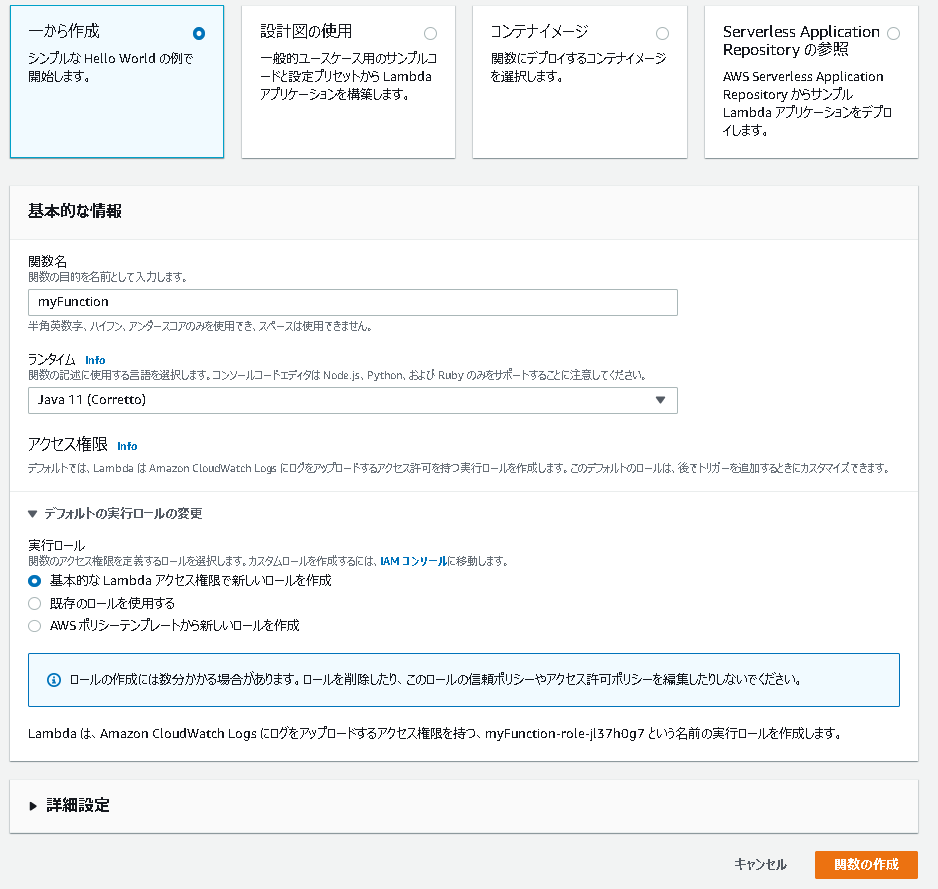
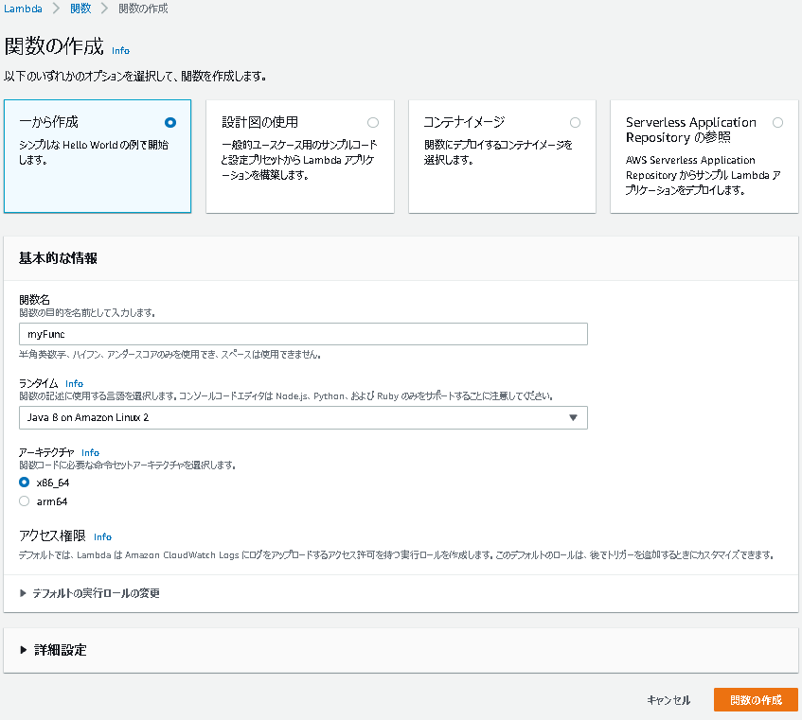
キャプチャ追加

diff --git a/01_serverless-architecture/03_apigateway.md b/01_serverless-architecture/03_apigateway.md
@@ -27,7 +27,7 @@
 
 > * サーバをプロビジョニング／管理することなく、APIの作成・管理出来るマネージドサービス。
 > * 可用性の担保やスケーラビリティの確保、APIキーの管理と言った作業を、API Gatewayに任せる事ができ、開発者はAPIの開発に注力することが可能。
-> * 「REST API」と「WebSocket」に対応
+> * 「REST API」「WebSocket」「HTTP API」に対応
 >   * 本ハンズオンでは「REST API」を使用
 >   * リクエストベースの料金体系
 >     * 実行回数（＋キャッシュメモリ量）＋データ転送量
@@ -55,13 +55,27 @@
 
 ## Amazon API Gateway ハンズオン① API Gateway を単体で使ってみる
 
-### Mockデータを返すAPIを作成する
+### 概要
+
+* Mockデータを返すAPIを作成する
+
+
+
+### 手順
 
 1. API Gatewayを検索
 
-2. 「APIを作成」を選択
+   ![api01](./img/api_01.png)
 
-3. APIの作成
+2. 「REST API」＞「構築」を選択
+
+   ![api02](./img/api_02.png)
+
+3. 「最初のAPIを作成する」ダイアログは「OK」
+
+   ![api](./img/api_03.png)
+
+4. APIの作成
 
    1. プロトコル：REST
    2. 新しいAPIの作成：新しいAPI
@@ -70,20 +84,34 @@
       2. 説明：空欄
       3. エンドポイントタイプ：リージョン
 
-4. 「アクション」→「リソースの作成」を選択
+   ![api](./img/api_04.png)
+
+5. 「アクション」→「リソースの作成」を選択
 
    1. リソース名：sample
 
-5. 作成した「sample」を選択した状態で、「アクション」→「メソッドの作成」を選択
+   ![api](./img/api_05.png)
+
+   ![api](./img/api_06.png)
+
+6. 作成した「sample」を選択した状態で、「アクション」→「メソッドの作成」を選択
 
    1. プルダウン：GET
    2. チェックボタンを押下
 
-6. セットアップ
+   ![api](./img/api_07.png)
+
+   ![api](./img/api_08.png)
+
+7. セットアップ
 
    1. 統合タイプ：Mock
 
-7. 統合レスポンスを選択
+   ![api](./img/api_09.png)
+
+8. 統合レスポンスを選択
+
+   ![api](./img/api_10.png)
 
    1. マッピングテンプレート：`application/json`
 
@@ -96,51 +124,114 @@
       }
       ```
 
-8. 「メソッドの実行」→「テスト」→「テスト」を実行
+   ![api](./img/api_11.png)
 
-9. デプロイ
+9. 「メソッドの実行」→「テスト」→「テスト」を実行
+
+   ![api](./img/api_12.png)
+
+   ![api](./img/api_13.png)
+
+10. デプロイ
 
    1. 「アクション」→「APIのデプロイ」
       1. デプロイされるステージ：新しいステージ
       2. ステージ名：dev
 
-10. 「ステージ」→「dev」→「URLの呼び出し」を選択
+   ![api](./img/api_14.png)
 
+   ![api](./img/api_15.png)
 
+11. 「ステージ」→「dev」→「URLの呼び出し」を選択
+
+    ※末尾に「`/sample`」をつける
+
+    ![api](./img/api_16.png)
+
+    ![api](./img/api_17.png)
 
 
 
 ## Amazon API Gateway ハンズオン② API Gateway と Lambda を組み合わせる
 
-### 入力した文字列の末尾に「`-nyan`」とつけるAPIを作成する:cat:
+### 概要
+
+* 入力した文字列の末尾に「`-nyan`」とつけるAPIを作成する:cat:
 
 ※「この程度ならLambdaいらないじゃん」とか言わないで・・・
 
-[ソースコード](./2_apigateway-hands-on/)
 
-* 依存ライブラリ（`Gson`）もjarに含めるため（`fat jar`作成のため）に、`Gradle Shadow Plugin`を使用しています。
 
-  * `./gradlew shadowJar`を実行することで、`fat jar`が作成されます。
+1. lambda用のjarを作成
+2. API Gateway から、Lambdaを呼び出す
 
-    ※Windowsの場合は、同様に`.\gradlew.bat shadowJar`を実行してください
 
-1. Lambdaを検索
-2. 先程作成した「myFunc」を使用する
-3. jarのアップロード
-   1. 上記で作成した`fat jar`を指定する
-4. テスト
+
+### 手順（Lambdaの設定）
+
+1. jarの準備（ローカルPCにて実施）
+
+   1. `aws_handson/01_serverless-architecture/2_apigateway-hands-on/`に移動
+
+   2. `./gradlew shadowJar`を実行
+
+      1. Windows（コマンドプロンプト）の場合は、「`.\gradlew.bat shadowJar`」
+
+         ※依存ライブラリ（`Gson`）もjarに含めるため（`fat jar`作成のため）に、`Gradle Shadow Plugin`を使用しています。
+
+2. 出力されたjarファイルを使用する（AWSマネジメントコンソールにて実施）
+
+   1. 「コードタブ」＞「アップロード元」＞「zip または jar ファイル」
+
+      ![handson-05](C:\Users\nobu\Desktop\会社\90_勉強\AWS-L\aws-handson\01_serverless-architecture\img\lambda_handson_05_1.png)
+
+   2. 「アップロード」を選択し、先程作成したjarファイルを指定し、保存
+
+      ![handson-05](./img/lambda_handson_05.png)
+
+3. メソッドの指定
+
+   1. 「コードタブ」＞「ランタイム設定」＞「編集」
+      * ランタイム：Java 8 on Amazon Linux 2
+      * ハンドラ：`org.example.handler.LambdaHandler::handleRequest`
+      * アーキテクチャ：`x86_64`
+
+   ![api-lambda](./img/api-lambda_01.png)
+
+4. 「テストタブ」＞「新しいイベント」
+
    1. 新しいイベント
+
    2. テンプレート：`apigateway-aws-proxy`
+
+      ![api-lambda](./img/api-lambda_02.png)
+
    3. 名前：test-api
-   4. 変更を保存→テスト
+
+   4. `queryStringParameters`を修正（7～9行目あたり）
+
+      ※引数にて`input_text`として取得しているため
+
+      ```diff
+        "queryStringParameters": {
+      -    "foo": "bar"
+      +    "input_text": "bar"
+        },
+      ```
+
+      ![api-lambda](./img/api-lambda_03.png)
+
+   5. 変更を保存→テスト
+
+      ![api-lambda](./img/api-lambda_04.png)
 
 
 
-### API Gatewayの設定
+### 手順（API Gatewayの設定）
 
 1. API Gatewayを検索
 
-2. 「APIを作成」を選択
+2. 「REST API」＞「構築」を選択
 
 3. APIの作成
 
@@ -163,25 +254,42 @@
 6. セットアップ
 
    1. 統合タイプ：Lambda 関数
+
    2. Lambda プロキシ統合の使用：チェックを入れる
+
    3. Lambda関数：myFunc
+
+      ![api-lambda](./img/api-lambda_05.png)
+
    4. Lambda関数に権限を追加する：OK
 
+      ![api-lambda](./img/api-lambda_06.png)
+
 7. メソッドリクエストを選択
+
+   ![api-lambda](./img/api-lambda_07.png)
 
    1. URLクエリ文字列パラメータ
 
       1. 名前：`input_text`
 
+         ![api-lambda](./img/api-lambda_08.png)
+
       2. 必須：チェックを入れる
 
          ※一度作成しないとチェックを行えない
 
+         ![api-lambda](./img/api-lambda_09.png)
+
 8. 「メソッドの実行」→「テスト」→「テスト」を実行
+
+   ![api-lambda](./img/api-lambda_10.png)
 
    1. クエリ文字列
 
       `input_text=hoge`
+
+      ![api-lambda](./img/api-lambda_11.png)
 
 9. デプロイ
 

diff --git a/01_serverless-architecture/02_lambda.md b/01_serverless-architecture/02_lambda.md
@@ -65,6 +65,51 @@
 
 ## AWS Lambda ハンズオン① Lambda を単体で使ってみる
 
+### 概要
+
+* Inputで渡した値を含んだ、Jsonを返すLambdaを作成
+
+  ※詳細は、ソースコードをご確認ください
+
+  * Input
+
+  ```json
+  {
+    "key1": "value1",
+    "key2": "value2",
+    "key3": "value3"
+  }
+  ```
+
+  * Output
+
+  ```json
+  {
+    "input": {
+      "key1": "value1",
+      "key2": "value2",
+      "key3": "value3"
+    },
+    "context": {
+      "awsRequestId": "xxx",
+      "logGroupName": "/aws/lambda/myFunc",
+      "logStreamName": "YYYY/MM/DD/xxx",
+      "functionName": "myFunc",
+      "functionVersion": "$LATEST",
+      "invokedFunctionArn": "arn:aws:lambda:ap-northeast-1:xxx:function:myFunc",
+      "logger": {},
+      "remainingTimeInMillis": 15000,
+      "memoryLimitInMB": 512
+    },
+    "body": "test",
+    "statusCode": "200"
+  }
+  ```
+
+
+
+### 手順
+
 1. Lambdaを検索
 
    ![handson-01](./img/lambda_handson_01.png)
@@ -73,9 +118,21 @@
 
 3. 「関数の作成」
 
-   1. 関数名：任意（myFunc）
-   2. ランタイム：Java8 on Amazon Linux 1
-   3. アクセス権限：デフォルト
+   1. オプション：「一から作成」
+
+   2. 関数名：任意（myFunc）
+
+   3. ランタイム：Java8 on Amazon Linux 2
+
+      Q：Amazon Linux1と2の違いは？
+
+      A：2は、EC2上のパフォーマンスが最適化されるように、カーネルが調整されています。
+
+      　　1は、2020年12月31日でEOL（End of Life）となっているので、基本的には「2」を使いましょう。
+
+   4. アーキテクチャ：x86_64
+
+   5. アクセス権限：デフォルト
 
    ![handson-03](./img/lambda_handson_03.png)
 
@@ -85,32 +142,42 @@
    
 5. jarのアップロード
 
-   [ソースコード](./1_lambda-hands-on/)
+   1. jarの準備（ローカルPCにて実施）
 
-   1. ソースコードを任意の箇所にダウンロード
+      1. ダウンロードした`aws_handson/01_serverless-architecture/1_lambda-hands-on/`にディレクトリに移動
 
-   2. ダウンロードしたディレクトリに移動して、`./gradlew build`
+      2. `./gradlew build`を実行
 
-      1. Windows（コマンドプロンプト）の場合は「`.\gradlew.bat build`」
+         1. Windows（コマンドプロンプト）の場合は「`.\gradlew.bat build`」
 
-         ※すでにファイルがある場合は、上書きされない可能性があるので、削除してから行う
+            ※すでにファイルがある場合は、上書きされない可能性があるので、削除してから行う
 
-   3. `build/libs/HandsOn-1.0-SNAPSHOT.jar`が出力される
+      3. `build/libs/HandsOn-1.0-SNAPSHOT.jar`が出力される
 
-   4. 出力されたjarファイルを使用する
+   2. 出力されたjarファイルを使用する（AWSマネジメントコンソールにて実施）
 
-   ![handson-05](./img/lambda_handson_05.png)
+      1. 「コードタブ」＞「アップロード元」＞「zip または jar ファイル」
+
+         ![handson-05](./img/lambda_handson_05_1.png)
+
+      2. 「アップロード」を選択し、先程作成したjarファイルを指定し、保存
+
+         ![handson-05](./img/lambda_handson_05.png)
 
 6. メソッドの指定
 
-   * ランタイム：Java 8 on Amazon Linux 1
-   * ハンドラ：`org.example.LambdaHandler::handleRequest`
+   1. 「コードタブ」＞「ランタイム設定」＞「編集」
+      * ランタイム：Java 8 on Amazon Linux 2
+      * ハンドラ：`org.example.LambdaHandler::handleRequest`
+      * アーキテクチャ：`x86_64`
 
    ![handson-06](./img/lambda_handson_06.png)
 
    ![handson-07](./img/lambda_handson_07.png)
 
 7. テスト実行
+
+   1. 「テストタブ」＞「新しいイベント」
 
    ![handson-08](./img/lambda_handson_08.png)
 
